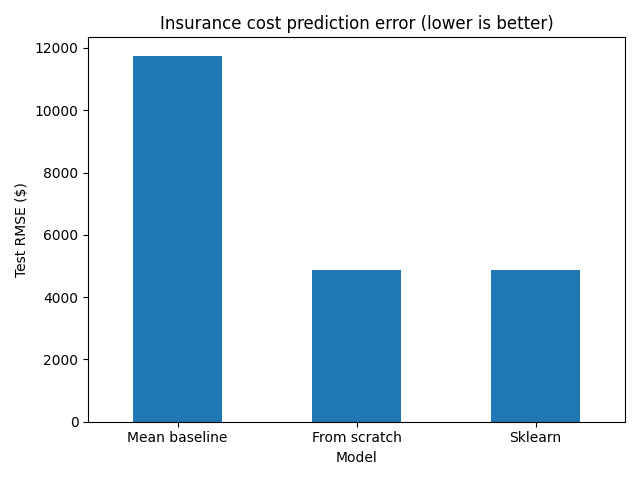
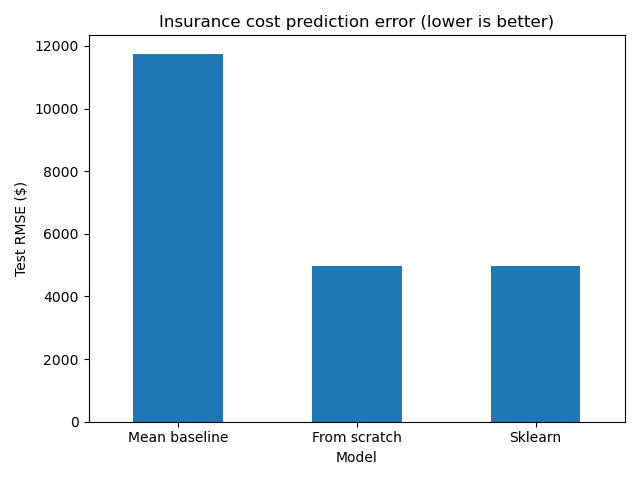
final?

diff --git a/main.py b/main.py
@@ -5,69 +5,67 @@ import numpy as np
 from gradientboostmodel import gradient_boost_model
 import helpers
 
-# as arrays
-X = pd.read_csv("data/Training_cleaned_features.csv").to_numpy(dtype=float)
-y = pd.read_csv("data/Training_cleaned_target.csv")["charges"].to_numpy(dtype=float)
-
-# Build the weak regression tree at depth 2
-tree = build_tree(X, y, max_depth=2)
-#print(tree)
-
-# Predict charges for each row
-predictions = np.array([predict_tree(tree, row) for row in X])
-
-#print(predictions)
 def main():
+    print("Comparing various model implementations...")
+    MSE_comparison()
+    print("Done")
+    print("Creating MSE plot...")
+    create_MSE_plot()
+    print("Done")
+    print("Testing a range of hyperparameter values...")
+    test_over_range_of_hyp()
+    print("Done")
+
+def test_over_range_of_hyp(): #Tests over a small range of hyperparameters
     X = pd.read_csv("data/Training_cleaned_features.csv")
     y = pd.read_csv("data/Training_cleaned_target.csv")["charges"]
     X_val=pd.read_csv("data/Validation_cleaned_features.csv")
     y_val = pd.read_csv("data/Validation_cleaned_target.csv")["charges"]
-    results=[]
-    # for tree_depth in [2,3,4]:
-    #     results.append([])
-    #     for lr in [0.05,0.1,0.2,0.25,0.3,0.5,0.6,0.75,1]:
-    #         model=train(X,y,2500,lr,tree_depth)
-    #         predictions=model.predict_many(X_val)
-    #         res=residuals(np.asarray(y_val),np.asarray(predictions))
-    #         results[-1].append(mse(res))
-    skresults=[]
-    '''
-    for tree_depth in [2,3,4]:
-        results.append([])
-        skresults.append([])
-        for lr in [0.01,0.02,0.03,0.04]:
-            #model=train(X,y,2500,lr,tree_depth)
-            #predictions=model.predict_many(X_val)
-            #res=residuals(np.asarray(y_val),np.asarray(predictions))
-            #results[-1].append(mse(res))
-            reg=GradientBoostingRegressor(loss="squared_error")
-            reg.fit(X,y)
-            skval=reg.predict(X_val)
-            skres=residuals(np.asarray(y_val),np.asarray(skval))
-            skresults[-1].append(mse(skres))
-    '''
-    ours=gradient_boost_model(0.01,2)
-    ours.train(X,y,2500)
-    oursval=ours.predict_many(X_val)
+    treeheights=[2,3]
+    learningrates=[0.001,0.0025,0.005,0.0075,0.01]
+    results=[[None]+learningrates]
+    for tree_depth in treeheights:
+        results.append([tree_depth])
+        for lr in learningrates:
+            #print(tree_depth,lr)
+            ours=gradient_boost_model(lr,tree_depth)
+            ours.train(X,y,2500)
+            oursval=ours.predict_many(X_val)
+            oursres=helpers.residuals(np.asarray(y_val),np.asarray(oursval))
+            #print(helpers.mse(oursres))
+            results[-1].append(helpers.mse(oursres))     
+    out=pd.DataFrame(results)
+    out.to_csv("results_smaller.csv", index=False)
+def create_MSE_plot(depth=2,lr=0.0025):
+    X = pd.read_csv("data/Training_cleaned_features.csv")
+    y = pd.read_csv("data/Training_cleaned_target.csv")["charges"]
+    X_val=pd.read_csv("data/Validation_cleaned_features.csv")
+    y_val = pd.read_csv("data/Validation_cleaned_target.csv")["charges"]
+    model=gradient_boost_model(lr,depth)
+    model.trainandlogmse(X,y,X_val,y_val,3000)
+
+def MSE_comparison(depth=2,lr=0.0025):
+    X = pd.read_csv("data/Training_cleaned_features.csv")
+    y = pd.read_csv("data/Training_cleaned_target.csv")["charges"]
+    X_val=pd.read_csv("data/Validation_cleaned_features.csv")
+    y_val = pd.read_csv("data/Validation_cleaned_target.csv")["charges"]
+    model=gradient_boost_model(lr,depth)
+    model.train(X,y,2500)
+    oursval=model.predict_many(X_val)
     oursres=helpers.residuals(np.asarray(y_val),np.asarray(oursval))
+    print("Validation MSE of our model:")
     print(helpers.mse(oursres))
-    reg=GradientBoostingRegressor(loss="squared_error")
-    reg.fit(X,y)
-    skval=reg.predict(X_val)
-    skres=helpers.residuals(np.asarray(y_val),np.asarray(skval))
-    print(helpers.mse(skres))
-    #skout=pd.DataFrame(skresults)
-    #skout.to_csv("skresults_smaller.csv", index=False)       
-    #out=pd.DataFrame(results)
-    #out.to_csv("results_smaller.csv", index=False)
-    # out.to_csv("results.csv", index=False)
-
-
-
-
-    
-
-
-
+    basereg=GradientBoostingRegressor(loss="squared_error")
+    basereg.fit(X,y)
+    baseval=basereg.predict(X_val)
+    baseres=helpers.residuals(np.asarray(y_val),np.asarray(baseval))
+    print("Validation MSE of base Scikit-learn model:")
+    print(helpers.mse(baseres))
+    customreg=GradientBoostingRegressor(loss="squared_error",n_estimators=2500,learning_rate=0.0025,max_depth=2)
+    customreg.fit(X,y)
+    customval=customreg.predict(X_val)
+    customres=helpers.residuals(np.asarray(y_val),np.asarray(customval))
+    print("Validation MSE of Scikit-learn model with our calculated optimal hyperparamters:")
+    print(helpers.mse(customres))
 
 main()

diff --git a/gradientboostmodel.py b/gradientboostmodel.py
@@ -1,14 +1,13 @@
 import helpers
 import numpy as np
 from regression_tree import build_tree, predict_tree
+import matplotlib.pyplot as plt
 class gradient_boost_model:
-    forest=[]
-    baseline=0
-    weight=0
-    maxheight=0
     def __init__(self,lr,maxheight=2):
         self.weight=lr
         self.maxheight=maxheight
+        self.forest=[]
+        self.baseline=0
         pass
     def train(self,X,y,iterations):
         self.baseline=helpers.baseline(y)
@@ -21,9 +20,37 @@ class gradient_boost_model:
             treepreds.append(np.array([predict_tree(self.forest[-1],x) for x in np.asarray(X)]))
             predictions=np.asarray(init_preds)+self.weight*sum(treepreds)
             res=helpers.residuals(np.asarray(y),predictions)
-            print(i)
-            print(helpers.mse(res))
+            #print(i)
+            #print(helpers.mse(res))
             i+=1
+    def trainandlogmse(self,X,y,X_val,y_val,iterations):
+        self.baseline=helpers.baseline(y)
+        init_preds=helpers.populate_list(self.baseline,len(y))
+        res=helpers.residuals(np.asarray(y),init_preds)
+        treepreds=[]
+        trainmses=[]
+        valmses=[]
+        i=0
+        while i<iterations:
+            self.forest.append(build_tree(np.asarray(X),np.asarray(res),max_depth=self.maxheight))
+            treepreds.append(np.array([predict_tree(self.forest[-1],x) for x in np.asarray(X)]))
+            predictions=np.asarray(init_preds)+self.weight*sum(treepreds)
+            res=helpers.residuals(np.asarray(y),predictions)
+            trainmses.append(helpers.mse(res))
+            if i%50==0:
+                validation_predictions=self.predict_many(X_val)
+                validation_residuals=helpers.residuals(np.asarray(y_val),validation_predictions)
+                valmses.append(helpers.mse(validation_residuals))
+            #print(i)
+            #print(helpers.mse(res))
+            i+=1
+        plt.plot(range(len(trainmses)),trainmses,label="training values",color='b')
+        plt.plot([50*i for i in range(len(valmses))],valmses,label="validation values",color='r')
+        plt.legend()
+        plt.xlabel("Iteration #")
+        plt.ylabel("MSE")
+        plt.title("MSE over training iterations for training/validation datasets")
+        plt.savefig("MSE_over_training.png")
     def predict_many(self,X):
         return helpers.predict_all(X,self.baseline,self.forest,self.weight)
     def predict_one(self,x):

diff --git a/final_testing_run.py b/final_testing_run.py
@@ -7,7 +7,7 @@ from sklearn.metrics import mean_squared_error, r2_score
 from gradientboostmodel import gradient_boost_model
 
 
-LEARNING_RATE = 0.01
+LEARNING_RATE = 0.0025
 MAX_DEPTH = 2
 ROUNDS = 2500
 
